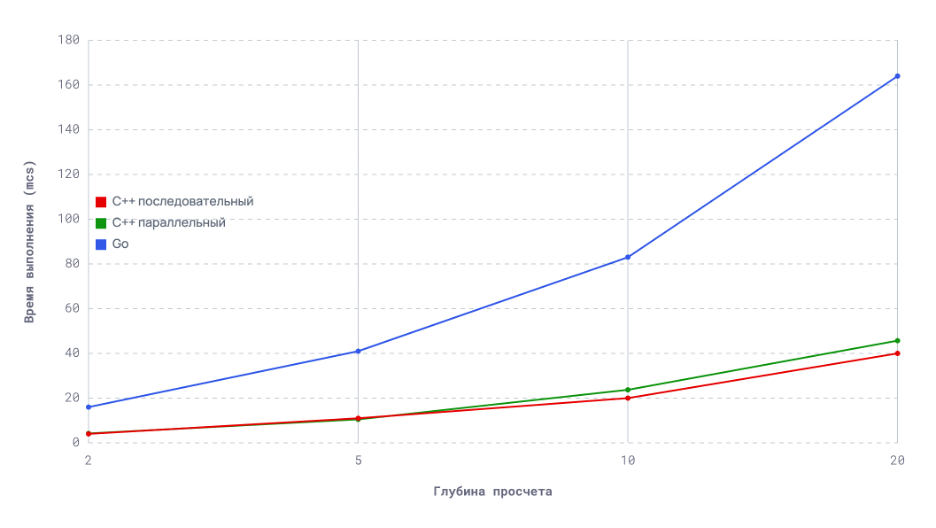
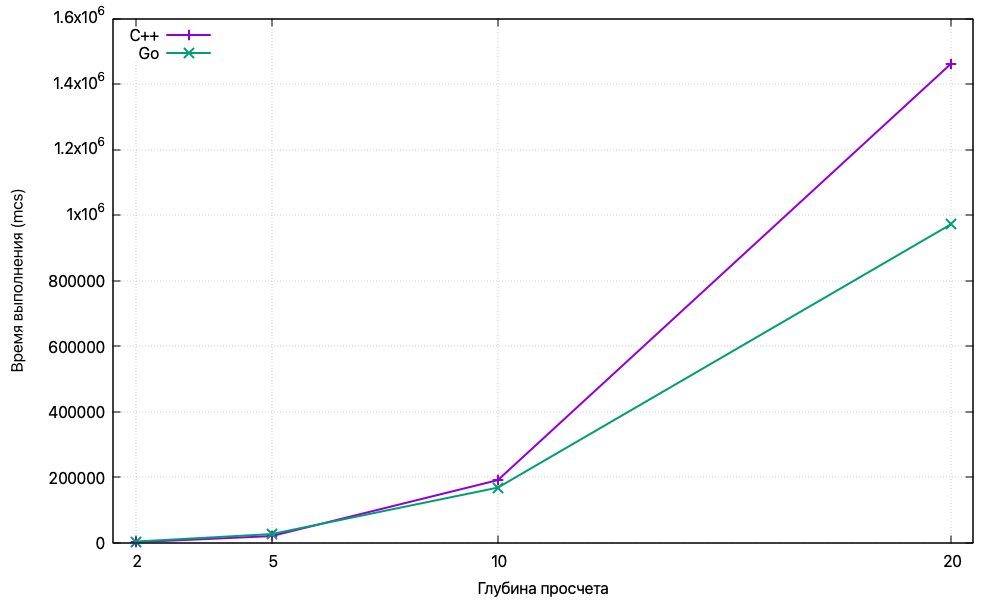
Little fixes

diff --git a/compute/compute_test.go b/compute/compute_test.go
@@ -151,7 +151,7 @@ func TestDifferentialEquation(t *testing.T) {
 	min := compute.Point{-1.0, 0.0}
 	max := compute.Point{1.0, 1.0}
 	diffTMax := 5.0
-	epsilon := 0.0000001
+	epsilon := 0.001
 
 	funcEval := func(arg compute.Point) (compute.Point, error) {
 		return integrateRk4(diffEq2D, arg, 0.0, diffTMax, 50), nil
@@ -165,7 +165,7 @@ func TestDifferentialEquation(t *testing.T) {
 	testPoints := []compute.Point{
 		{0.5, 0.5}, {-0.3, 0.7}, {0.0, 0.0}, {0.9, 0.1}, {0.1, 0.9}, {-0.85235, 0.2367},
 	}
-	for i := 0; i < 50000; i++ {
+	for i := 0; i < 10000; i++ {
 		testPoints = append(testPoints, compute.Point{min[0] + rand.Float64()*(max[0]-min[0]), min[1] + rand.Float64()*(max[1]-min[1])})
 	}
 
@@ -176,7 +176,7 @@ func TestDifferentialEquation(t *testing.T) {
 		}
 		expected, _ := funcEval(testPoint)
 
-		if math.Abs(result[0]-expected[0]) > 0.01 {
+		if math.Abs(math.Sqrt(math.Pow(math.Abs(result[0]-expected[0]), 2) + math.Pow(math.Abs(result[1]-expected[1]), 2))) > 0.01 {
 			t.Errorf("at %v: expected %v, got %v", testPoint, expected[0], result[0])
 		}
 	}

diff --git a/cpp/test/bench.cpp b/cpp/test/bench.cpp
@@ -193,7 +193,7 @@ TEST(ComputeBenchmark, DifferentialEquationApproaches) {
       return integrate_rk4(diff_eq, Compute::Point<2>{state[0], state[1]}, 0, 1, 25);
     };
 
-    bench(fmt::format("t_as_interval_uncertainty_tMax_{}", t_max), 40, [&]() {
+    bench(fmt::format("t_as_interval_uncertainty_tMax_{}", t_max), 5, [&]() {
       Compute::Point<3> min = {-1, 0, 0},
                         max = {1, 1, static_cast<Compute::ScalarType>(t_max)};
       volatile Compute::AdaptiveSparseGrid grid(
@@ -201,7 +201,7 @@ TEST(ComputeBenchmark, DifferentialEquationApproaches) {
           DefaultBuildType);
     });
 
-    bench(fmt::format("iterative_make_next_iteration_tMax_{}", t_max), 40,
+    bench(fmt::format("iterative_make_next_iteration_tMax_{}", t_max), 5,
           [&]() {
             Compute::Point<2> min = {-1, 0}, max = {1, 1};
             Compute::AdaptiveSparseGrid grid(integrate1s, min, max, 0.001, {},
